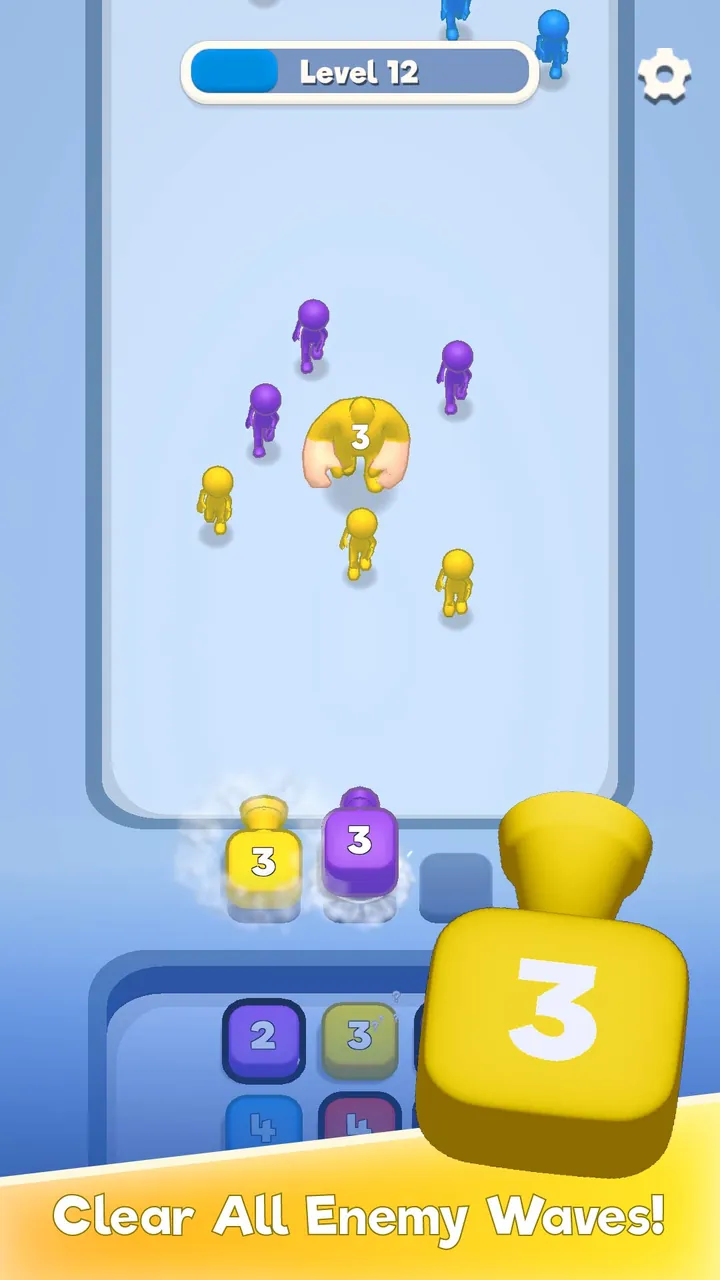
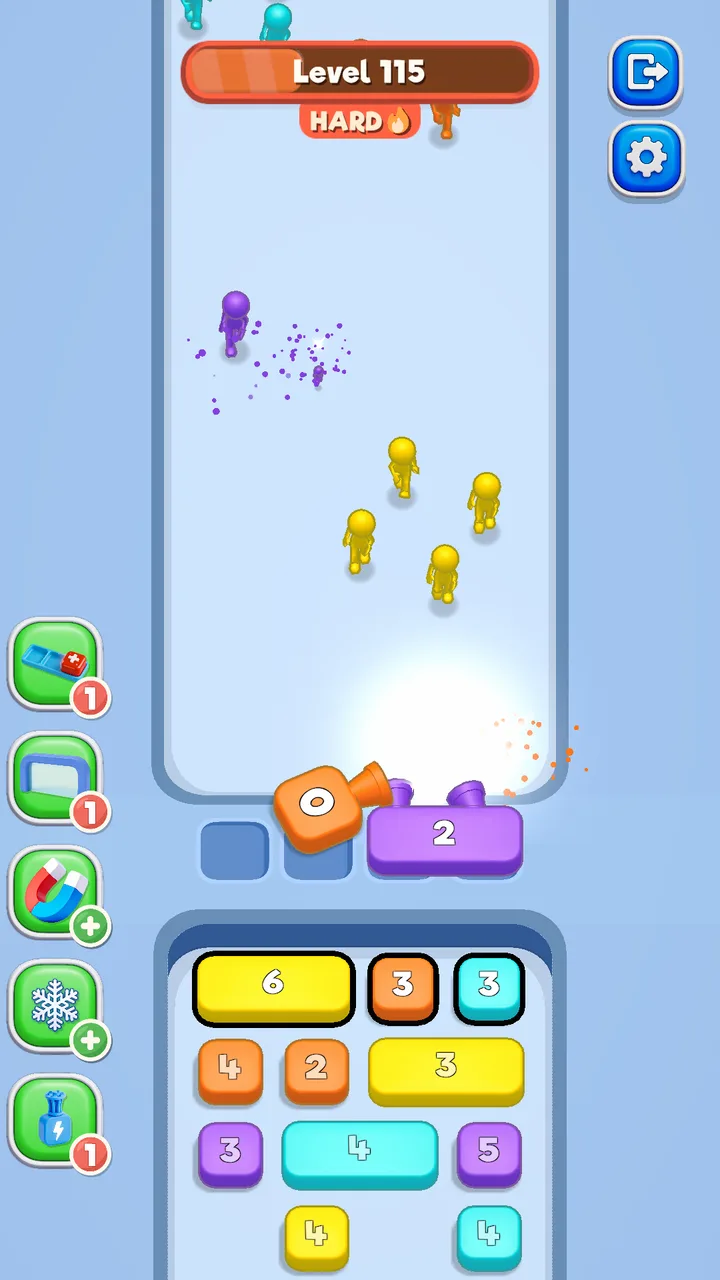
Blast Defence: new in-game screenshots from Unity, steadier carousel arrows
- Replace the 7 store screenshots with 11 captures made in the Unity
  editor with Unity Recorder (gameplay across themes and mechanics,
  power-ups, main menu, Blast Pass, leaderboard, store, invite).
- Carousel arrows now scroll to an exact card position instead of a
  relative scrollBy, so a click is never undone by scroll-snap.
- Bump cache version to 64.

diff --git a/project.js b/project.js
@@ -307,8 +307,20 @@
       if (scrollable && list.scrollLeft >= max - 2) { idx = count - 1; }
       Array.prototype.forEach.call(dots.children, function (d, i) { d.classList.toggle("on", i === idx); });
     }
-    prev.addEventListener("click", function () { list.scrollBy({ left: -step(), behavior: reduceMotion ? "auto" : "smooth" }); });
-    next.addEventListener("click", function () { list.scrollBy({ left: step(), behavior: reduceMotion ? "auto" : "smooth" }); });
+    // Arrows go to an exact card position (scrollBy could be undone by scroll-snap mid-animation)
+    var target = null, targetTimer = 0;
+    function go(dir) {
+      var st = step() || 1;
+      var max = list.scrollWidth - list.clientWidth;
+      var pos = target !== null ? target : Math.round(list.scrollLeft / st);
+      var last = Math.round(max / st);
+      target = Math.max(0, Math.min(last, pos + dir));
+      clearTimeout(targetTimer);
+      targetTimer = setTimeout(function () { target = null; }, 700);
+      list.scrollTo({ left: target >= last ? max : target * st, behavior: reduceMotion ? "auto" : "smooth" });
+    }
+    prev.addEventListener("click", function () { go(-1); });
+    next.addEventListener("click", function () { go(1); });
     list.addEventListener("scroll", update, { passive: true });
     window.addEventListener("resize", update);
     setTimeout(update, 60); setTimeout(update, 700);

diff --git a/content.js b/content.js
@@ -509,7 +509,7 @@ window.SITE = {
           overview: "A hybrid-casual puzzle strategy game where players use color-matching shooters to defeat incoming enemies while solving puzzles through strategic decisions.",
           highlights: ["puzzle strategy", "color-matching shooters", "strategic decisions"], // words in the overview that are shown in cyan
           world: "assets/projects/blast-defence/world.webp", // optional full-page background artwork (replaces the hero bg and fx atmosphere)
-          gallery: [1, 2, 3, 4, 5, 6, 7].map(function (n) { return "assets/projects/blast-defence/shot-" + n + ".webp"; }), // store screenshots (carousel)
+          gallery: [1, 2, 3, 4, 5, 6, 7, 8, 9, 10, 11].map(function (n) { return "assets/projects/blast-defence/shot-" + n + ".webp"; }), // in-game captures from Unity Recorder (carousel)
           video: "", // gameplay video file. Leave empty and just add "gameplay.mp4" (or .webm) to assets/projects/<id>/ and it appears automatically
           videoPoster: "assets/projects/blast-defence/gameplay-poster.webp", // cover image shown until the video starts
           contributions: [

diff --git a/projects/blast-defence/index.html b/projects/blast-defence/index.html
@@ -13,8 +13,8 @@
   <link rel="preconnect" href="https://fonts.gstatic.com" crossorigin>
   <link href="https://fonts.googleapis.com/css2?family=Bricolage+Grotesque:opsz,wght@12..96,500;12..96,700&family=Instrument+Sans:wght@400;500;600&display=swap" rel="stylesheet">
   <script>document.documentElement.classList.add("js");</script>
-  <link rel="stylesheet" href="../../style.css?v=63">
-  <link rel="stylesheet" href="../../project.css?v=63">
+  <link rel="stylesheet" href="../../style.css?v=64">
+  <link rel="stylesheet" href="../../project.css?v=64">
 </head>
 <body class="project-page">
   <a class="skip" href="#overview" id="skip-link">Skip to content</a>
@@ -40,8 +40,8 @@
     <button type="button" class="lb-nav lb-next" id="lb-next" aria-label="Next"></button>
   </dialog>
 
-  <script src="../../content.js?v=63"></script>
-  <script src="../../project.js?v=63"></script>
-  <script src="../../analytics.js?v=63"></script>
+  <script src="../../content.js?v=64"></script>
+  <script src="../../project.js?v=64"></script>
+  <script src="../../analytics.js?v=64"></script>
 </body>
 </html>

diff --git a/projects/ember-born/index.html b/projects/ember-born/index.html
@@ -13,8 +13,8 @@
   <link rel="preconnect" href="https://fonts.gstatic.com" crossorigin>
   <link href="https://fonts.googleapis.com/css2?family=Bricolage+Grotesque:opsz,wght@12..96,500;12..96,700&family=Instrument+Sans:wght@400;500;600&display=swap" rel="stylesheet">
   <script>document.documentElement.classList.add("js");</script>
-  <link rel="stylesheet" href="../../style.css?v=63">
-  <link rel="stylesheet" href="../../project.css?v=63">
+  <link rel="stylesheet" href="../../style.css?v=64">
+  <link rel="stylesheet" href="../../project.css?v=64">
 </head>
 <body class="project-page">
   <a class="skip" href="#overview" id="skip-link">Skip to content</a>
@@ -40,8 +40,8 @@
     <button type="button" class="lb-nav lb-next" id="lb-next" aria-label="Next"></button>
   </dialog>
 
-  <script src="../../content.js?v=63"></script>
-  <script src="../../project.js?v=63"></script>
-  <script src="../../analytics.js?v=63"></script>
+  <script src="../../content.js?v=64"></script>
+  <script src="../../project.js?v=64"></script>
+  <script src="../../analytics.js?v=64"></script>
 </body>
 </html>

diff --git a/projects/lift-rush/index.html b/projects/lift-rush/index.html
@@ -13,8 +13,8 @@
   <link rel="preconnect" href="https://fonts.gstatic.com" crossorigin>
   <link href="https://fonts.googleapis.com/css2?family=Bricolage+Grotesque:opsz,wght@12..96,500;12..96,700&family=Instrument+Sans:wght@400;500;600&display=swap" rel="stylesheet">
   <script>document.documentElement.classList.add("js");</script>
-  <link rel="stylesheet" href="../../style.css?v=63">
-  <link rel="stylesheet" href="../../project.css?v=63">
+  <link rel="stylesheet" href="../../style.css?v=64">
+  <link rel="stylesheet" href="../../project.css?v=64">
 </head>
 <body class="project-page">
   <a class="skip" href="#overview" id="skip-link">Skip to content</a>
@@ -40,8 +40,8 @@
     <button type="button" class="lb-nav lb-next" id="lb-next" aria-label="Next"></button>
   </dialog>
 
-  <script src="../../content.js?v=63"></script>
-  <script src="../../project.js?v=63"></script>
-  <script src="../../analytics.js?v=63"></script>
+  <script src="../../content.js?v=64"></script>
+  <script src="../../project.js?v=64"></script>
+  <script src="../../analytics.js?v=64"></script>
 </body>
 </html>

diff --git a/projects/move-it-all/index.html b/projects/move-it-all/index.html
@@ -13,8 +13,8 @@
   <link rel="preconnect" href="https://fonts.gstatic.com" crossorigin>
   <link href="https://fonts.googleapis.com/css2?family=Bricolage+Grotesque:opsz,wght@12..96,500;12..96,700&family=Instrument+Sans:wght@400;500;600&display=swap" rel="stylesheet">
   <script>document.documentElement.classList.add("js");</script>
-  <link rel="stylesheet" href="../../style.css?v=63">
-  <link rel="stylesheet" href="../../project.css?v=63">
+  <link rel="stylesheet" href="../../style.css?v=64">
+  <link rel="stylesheet" href="../../project.css?v=64">
 </head>
 <body class="project-page">
   <a class="skip" href="#overview" id="skip-link">Skip to content</a>
@@ -40,8 +40,8 @@
     <button type="button" class="lb-nav lb-next" id="lb-next" aria-label="Next"></button>
   </dialog>
 
-  <script src="../../content.js?v=63"></script>
-  <script src="../../project.js?v=63"></script>
-  <script src="../../analytics.js?v=63"></script>
+  <script src="../../content.js?v=64"></script>
+  <script src="../../project.js?v=64"></script>
+  <script src="../../analytics.js?v=64"></script>
 </body>
 </html>

diff --git a/projects/royal-words/index.html b/projects/royal-words/index.html
@@ -13,8 +13,8 @@
   <link rel="preconnect" href="https://fonts.gstatic.com" crossorigin>
   <link href="https://fonts.googleapis.com/css2?family=Bricolage+Grotesque:opsz,wght@12..96,500;12..96,700&family=Instrument+Sans:wght@400;500;600&display=swap" rel="stylesheet">
   <script>document.documentElement.classList.add("js");</script>
-  <link rel="stylesheet" href="../../style.css?v=63">
-  <link rel="stylesheet" href="../../project.css?v=63">
+  <link rel="stylesheet" href="../../style.css?v=64">
+  <link rel="stylesheet" href="../../project.css?v=64">
 </head>
 <body class="project-page">
   <a class="skip" href="#overview" id="skip-link">Skip to content</a>
@@ -40,8 +40,8 @@
     <button type="button" class="lb-nav lb-next" id="lb-next" aria-label="Next"></button>
   </dialog>
 
-  <script src="../../content.js?v=63"></script>
-  <script src="../../project.js?v=63"></script>
-  <script src="../../analytics.js?v=63"></script>
+  <script src="../../content.js?v=64"></script>
+  <script src="../../project.js?v=64"></script>
+  <script src="../../analytics.js?v=64"></script>
 </body>
 </html>

diff --git a/projects/subway-flow/index.html b/projects/subway-flow/index.html
@@ -13,8 +13,8 @@
   <link rel="preconnect" href="https://fonts.gstatic.com" crossorigin>
   <link href="https://fonts.googleapis.com/css2?family=Bricolage+Grotesque:opsz,wght@12..96,500;12..96,700&family=Instrument+Sans:wght@400;500;600&display=swap" rel="stylesheet">
   <script>document.documentElement.classList.add("js");</script>
-  <link rel="stylesheet" href="../../style.css?v=63">
-  <link rel="stylesheet" href="../../project.css?v=63">
+  <link rel="stylesheet" href="../../style.css?v=64">
+  <link rel="stylesheet" href="../../project.css?v=64">
 </head>
 <body class="project-page">
   <a class="skip" href="#overview" id="skip-link">Skip to content</a>
@@ -40,8 +40,8 @@
     <button type="button" class="lb-nav lb-next" id="lb-next" aria-label="Next"></button>
   </dialog>
 
-  <script src="../../content.js?v=63"></script>
-  <script src="../../project.js?v=63"></script>
-  <script src="../../analytics.js?v=63"></script>
+  <script src="../../content.js?v=64"></script>
+  <script src="../../project.js?v=64"></script>
+  <script src="../../analytics.js?v=64"></script>
 </body>
 </html>

diff --git a/index.html b/index.html
@@ -13,7 +13,7 @@
   <link rel="preconnect" href="https://fonts.gstatic.com" crossorigin>
   <link href="https://fonts.googleapis.com/css2?family=Bricolage+Grotesque:opsz,wght@12..96,500;12..96,700&family=Instrument+Sans:wght@400;500;600&display=swap" rel="stylesheet">
   <script>document.documentElement.classList.add("js");</script>
-  <link rel="stylesheet" href="style.css?v=63">
+  <link rel="stylesheet" href="style.css?v=64">
 </head>
 <body>
   <a class="skip" href="#about" id="skip-link">Skip to content</a>
@@ -299,9 +299,9 @@
     </div>
   </footer>
 
-  <script src="content.js?v=63"></script>
-  <script src="script.js?v=63"></script>
-  <script src="analytics.js?v=63"></script>
-  <script type="module" src="cv.js?v=63"></script>
+  <script src="content.js?v=64"></script>
+  <script src="script.js?v=64"></script>
+  <script src="analytics.js?v=64"></script>
+  <script type="module" src="cv.js?v=64"></script>
 </body>
 </html>
